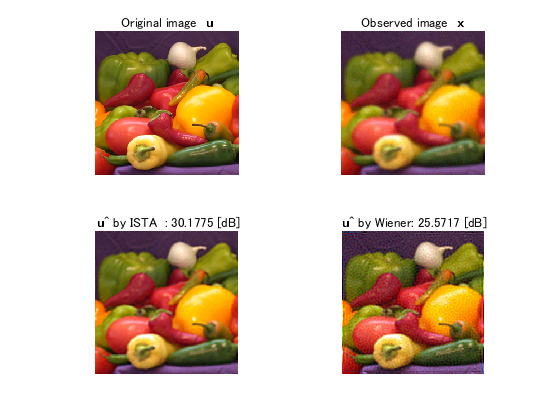
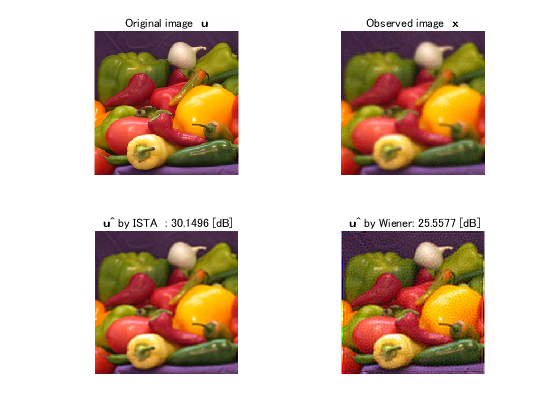
Updated Contents.m

diff --git a/html/quickstart.html b/html/quickstart.html
@@ -6,7 +6,7 @@
    <!--
 This HTML was auto-generated from MATLAB code.
 To make changes, update the MATLAB code and republish this document.
-      --><title>Quickstart of SaivDr Package</title><meta name="generator" content="MATLAB 9.2"><link rel="schema.DC" href="http://purl.org/dc/elements/1.1/"><meta name="DC.date" content="2017-07-14"><meta name="DC.source" content="quickstart.m"><style type="text/css">
+      --><title>Quickstart of SaivDr Package</title><meta name="generator" content="MATLAB 9.4"><link rel="schema.DC" href="http://purl.org/dc/elements/1.1/"><meta name="DC.date" content="2018-07-21"><meta name="DC.source" content="quickstart.m"><style type="text/css">
 html,body,div,span,applet,object,iframe,h1,h2,h3,h4,h5,h6,p,blockquote,pre,a,abbr,acronym,address,big,cite,code,del,dfn,em,font,img,ins,kbd,q,s,samp,small,strike,strong,sub,sup,tt,var,b,u,i,center,dl,dt,dd,ol,ul,li,fieldset,form,label,legend,table,caption,tbody,tfoot,thead,tr,th,td{margin:0;padding:0;border:0;outline:0;font-size:100%;vertical-align:baseline;background:transparent}body{line-height:1}ol,ul{list-style:none}blockquote,q{quotes:none}blockquote:before,blockquote:after,q:before,q:after{content:'';content:none}:focus{outine:0}ins{text-decoration:none}del{text-decoration:line-through}table{border-collapse:collapse;border-spacing:0}
 
 html { min-height:100%; margin-bottom:1px; }
@@ -67,7 +67,7 @@ table td { padding:7px 5px; text-align:left; vertical-align:top; border:1px soli
 
 
   </style></head><body><div class="content"><h1>Quickstart of <b>SaivDr Package</b></h1><!--introduction--><p>A brief introduction to image restroation with <b>SaivDr Package</b></p><!--/introduction--><h2>Contents</h2><div><ul><li><a href="#1">Summary</a></li><li><a href="#2">Add the package to search path</a></li><li><a href="#3">Read a source image</a></li><li><a href="#4">Create a degradation system object</a></li><li><a href="#5">Generate an observed image</a></li><li><a href="#6">Create an NSOLT system object</a></li><li><a href="#7">Create an analysis and synthesis system object</a></li><li><a href="#10">Create an ISTA-based image restoration system object</a></li><li><a href="#11">Create a step monitor system object</a></li><li><a href="#12">Perform ISTA-based image restoration</a></li><li><a href="#13">Extract the final evaluation</a></li><li><a href="#14">Perform Wiener filtering</a></li><li><a href="#15">Compare deblurring performances</a></li><li><a href="#16">Release notes</a></li></ul></div><h2 id="1">Summary</h2><p><b>SaivDr</b> is an abbreviation of <i>Sparsity-Aware Image and Volume Data Restoration</i>. This package is developed in order for making</p><div><ul><li>Experiments,</li><li>Development and</li><li>Implementation</li></ul></div><p>of sparsity-aware image and volume data restoraition algorithms simple.</p><p>Information about <b>SaivDr Package</b> is given in Contents.m. The HELP command can be used to see the contents as follows:</p><pre class="codeinput">help <span class="string">SaivDr</span>
-</pre><pre class="codeoutput">  Sparsity-Aware Image and Volume Data Restoration Package
+</pre><pre class="codeoutput">  Sparsity-Aware Image and Volumetric Data Restoration Package
  
   Files
     mytest     - Script of unit testing for SaivDr Package
@@ -87,6 +87,8 @@ table td { padding:7px 5px; text-align:left; vertical-align:top; border:1px soli
               |            |               +- nsgenlot  -+- design
               |            |               |
               |            |               +- nsgenlotx -+- design
+              |            |               |
+              |            |               +- olaols
               |            |               |
               |            |               +- olpprfb
               |            |               |
@@ -121,6 +123,8 @@ table td { padding:7px 5px; text-align:left; vertical-align:top; border:1px soli
               |               +- nsgenlot  -+- design
               |               |         
               |               +- nsgenlotx -+- design
+              |               |         
+              |               +- olaols
               |               |         
               |               +- olpprfb
               |               |         
@@ -188,9 +192,9 @@ table td { padding:7px 5px; text-align:left; vertical-align:top; border:1px soli
   
   - Shogo Muramatsu, Kosuke Furuya and Naotaka Yuki, "Multidimensional 
     Nonseparable Oversampled Lapped Transforms: Theory and Design," 
-    IEEE Trans. on Signal Process.Vol.65, No.5, pp.1251?1264,
+    IEEE Trans. on Signal Process.Vol.65, No.5, pp.1251-1264,
     DOI:10.1109/TSP.2016.2633240, March 2017.
- 
+    
   - Kota Horiuchi and Shogo Muramatsu, "Fast convolution technique for 
     Non-separable Oversampled Lapped transforms," Proc. of Asia Pacific 
     Signal and Information Proc. Assoc. Annual Summit and Conf. 
@@ -252,7 +256,7 @@ height = 256; <span class="comment">% Height</span>
 px     = 64;  <span class="comment">% Horizontal position of cropping</span>
 py     = 64;  <span class="comment">% Vertical position of cropping</span>
 orgImg = im2double(srcImg(py:py+height-1,px:px+width-1,:));
-</pre><h2 id="4">Create a degradation system object</h2><p>Suppose that we only have a degraded image <img src="quickstart_eq08291690262771002032.png" alt="$\mathbf{x}$"> which is contaminated by Gaussian kernel blur <img src="quickstart_eq04341845410467366200.png" alt="$\mathbf{P}$"> with addtive white Gaussian noise <img src="quickstart_eq06351776505552165981.png" alt="$\mathbf{w}$">, i.e.</p><p><img src="quickstart_eq05931457240804436659.png" alt="$\mathbf{x} = \mathbf{Pu} + \mathbf{w}$"> ,</p><p>where <img src="quickstart_eq09258825031370906642.png" alt="$\mathbf{u}$"> is an unknown clearn original image.</p><p>Let us generate a degradation process by using the following classes provided by <b>SaivDr Package</b>.</p><div><ul><li>saivdr.degradation.linearprocess.BlurSystem</li><li>saivdr.degradation.noiseprocess.AdditiveWhiteGaussianNoiseSystem</li><li>saivdr.degradation.DegradationSystem</li></ul></div><pre class="codeinput">import <span class="string">saivdr.degradation.linearprocess.BlurSystem</span>
+</pre><h2 id="4">Create a degradation system object</h2><p>Suppose that we only have a degraded image <img src="quickstart_eq08291690262771002032.png" alt="$\mathbf{x}$" style="width:5px;height:4px;"> which is contaminated by Gaussian kernel blur <img src="quickstart_eq04341845410467366200.png" alt="$\mathbf{P}$" style="width:5px;height:5px;"> with addtive white Gaussian noise <img src="quickstart_eq06351776505552165981.png" alt="$\mathbf{w}$" style="width:6px;height:4px;">, i.e.</p><p><img src="quickstart_eq05931457240804436659.png" alt="$\mathbf{x} = \mathbf{Pu} + \mathbf{w}$" style="width:40px;height:6px;"> ,</p><p>where <img src="quickstart_eq09258825031370906642.png" alt="$\mathbf{u}$" style="width:5px;height:4px;"> is an unknown clearn original image.</p><p>Let us generate a degradation process by using the following classes provided by <b>SaivDr Package</b>.</p><div><ul><li>saivdr.degradation.linearprocess.BlurSystem</li><li>saivdr.degradation.noiseprocess.AdditiveWhiteGaussianNoiseSystem</li><li>saivdr.degradation.DegradationSystem</li></ul></div><pre class="codeinput">import <span class="string">saivdr.degradation.linearprocess.BlurSystem</span>
 blurtype = <span class="string">'Gaussian'</span>;  <span class="comment">% Blur type</span>
 boundary = <span class="string">'Symmetric'</span>; <span class="comment">% Boundary option</span>
 hsigma   = 2;           <span class="comment">% Sigma for Gausian kernel</span>
@@ -272,8 +276,8 @@ import <span class="string">saivdr.degradation.DegradationSystem</span>
 dgrd = DegradationSystem(<span class="keyword">...</span><span class="comment"> % Integration of blur and AWGN</span>
     <span class="string">'LinearProcess'</span>, blur,<span class="keyword">...</span>
     <span class="string">'NoiseProcess'</span>,  awgn);
-</pre><h2 id="5">Generate an observed image</h2><p>Then, let us generate an observed image <img src="quickstart_eq08291690262771002032.png" alt="$\mathbf{x}$"> by the DegradationSystem object, <i>dgrd</i> , created in the previous step.</p><pre class="codeinput">obsImg = step(dgrd,orgImg);
-</pre><h2 id="6">Create an NSOLT system object</h2><p>In order to restore the clearn image <img src="quickstart_eq09258825031370906642.png" alt="$\mathbf{u}$">, let us assume that <img src="quickstart_eq09258825031370906642.png" alt="$\mathbf{u}$"> is represented by a dictionary <img src="quickstart_eq07812796122435096599.png" alt="$\mathbf{D}$"> as</p><p><img src="quickstart_eq08718062006498229712.png" alt="$\mathbf{u} = \mathbf{Dy}$"> ,</p><p>where <img src="quickstart_eq01759449390978539805.png" alt="$\mathbf{y}$"> is a coefficient vector and expected to be sparse, i.e. the number of non-zero coefficients are few.</p><p>A non-separalbe oversampled lapped transform (NSOLT) can be used as a dictionary <img src="quickstart_eq07812796122435096599.png" alt="$\mathbf{D}$"> and instantiated by using the following static factory method:</p><div><ul><li>saivdr.dictionary.nsoltx.NsoltFactory.createOvsdLpPuFb2d()</li></ul></div><p>In this deblurring demo, a pre-designed NSOLT is loaded from the following location:</p><div><ul><li>( <i>ROOT_OF_SAIVDR</i> )/examples/quickdesign/results/</li></ul></div><p>If you are interested in the design of NSOLT, please refer, for example, to the following function:</p><div><ul><li>( <i>ROOT_OF_SAIVDR</i> )/examples/quickdesign/main_quickdesign.m</li></ul></div><pre class="codeinput"><span class="comment">% Parameters for NSOLT</span>
+</pre><h2 id="5">Generate an observed image</h2><p>Then, let us generate an observed image <img src="quickstart_eq08291690262771002032.png" alt="$\mathbf{x}$" style="width:5px;height:4px;"> by the DegradationSystem object, <i>dgrd</i> , created in the previous step.</p><pre class="codeinput">obsImg = step(dgrd,orgImg);
+</pre><h2 id="6">Create an NSOLT system object</h2><p>In order to restore the clearn image <img src="quickstart_eq09258825031370906642.png" alt="$\mathbf{u}$" style="width:5px;height:4px;">, let us assume that <img src="quickstart_eq09258825031370906642.png" alt="$\mathbf{u}$" style="width:5px;height:4px;"> is represented by a dictionary <img src="quickstart_eq07812796122435096599.png" alt="$\mathbf{D}$" style="width:6px;height:5px;"> as</p><p><img src="quickstart_eq08718062006498229712.png" alt="$\mathbf{u} = \mathbf{Dy}$" style="width:25px;height:7px;"> ,</p><p>where <img src="quickstart_eq01759449390978539805.png" alt="$\mathbf{y}$" style="width:5px;height:5px;"> is a coefficient vector and expected to be sparse, i.e. the number of non-zero coefficients are few.</p><p>A non-separalbe oversampled lapped transform (NSOLT) can be used as a dictionary <img src="quickstart_eq07812796122435096599.png" alt="$\mathbf{D}$" style="width:6px;height:5px;"> and instantiated by using the following static factory method:</p><div><ul><li>saivdr.dictionary.nsoltx.NsoltFactory.createOvsdLpPuFb2d()</li></ul></div><p>In this deblurring demo, a pre-designed NSOLT is loaded from the following location:</p><div><ul><li>( <i>ROOT_OF_SAIVDR</i> )/examples/quickdesign/results/</li></ul></div><p>If you are interested in the design of NSOLT, please refer, for example, to the following function:</p><div><ul><li>( <i>ROOT_OF_SAIVDR</i> )/examples/quickdesign/main_quickdesign.m</li></ul></div><pre class="codeinput"><span class="comment">% Parameters for NSOLT</span>
 nLevels = 4;     <span class="comment">% # of wavelet tree levels</span>
 nDec    = [2 2]; <span class="comment">% Decimation factor</span>
 nChs    = [4 4]; <span class="comment">% # of channels</span>
@@ -329,7 +333,7 @@ set(synthesizer,<span class="string">'UseGpu'</span>,false);
 analyzer    = NsoltFactory.createAnalysis2dSystem(nsolt);
 </pre><pre class="language-matlab"><span class="comment">% saivdr.dictionary.nsoltx.NsoltSynthesis2dSystem</span>
 synthesizer = NsoltFactory.createSynthesis2dSystem(nsolt);
-</pre><h2 id="10">Create an ISTA-based image restoration system object</h2><p>Let the <img src="quickstart_eq07491953565008501379.png" alt="$\ell_1$">-norm of <img src="quickstart_eq01759449390978539805.png" alt="$\mathbf{y}$">, i.e. <img src="quickstart_eq03981472617682197909.png" alt="$\|\mathbf{y}\|_1$">, be the sparsity measure of the coefficients. Then, the debluring problem can be formulated as</p><p><img src="quickstart_eq04865511837010530479.png" alt="$\hat{\mathbf{y}} = \arg\min_{\mathbf{y}}\frac{1}{2}\|\mathbf{x}-\mathbf{PDy}\|_2^2+\lambda\|\mathbf{y}\|_1$">.</p><p>Provided that the blur process <img src="quickstart_eq04341845410467366200.png" alt="$\mathbf{P}$"> is known and given as a linear process, the iterative shrinkage/thresholding algorithm (ISTA) becomes applicable to solve the above problem. In <b>SaivDr Package</b>, image restoration with ISTA is implemented in the following class:</p><div><ul><li>saivdr.restoration.ista.IstaImRestoration</li></ul></div><pre class="codeinput"><span class="comment">% Instantiation of ISTA system object</span>
+</pre><h2 id="10">Create an ISTA-based image restoration system object</h2><p>Let the <img src="quickstart_eq07491953565008501379.png" alt="$\ell_1$" style="width:6px;height:7px;">-norm of <img src="quickstart_eq01759449390978539805.png" alt="$\mathbf{y}$" style="width:5px;height:5px;">, i.e. <img src="quickstart_eq03981472617682197909.png" alt="$\|\mathbf{y}\|_1$" style="width:14px;height:8px;">, be the sparsity measure of the coefficients. Then, the debluring problem can be formulated as</p><p><img src="quickstart_eq04865511837010530479.png" alt="$\hat{\mathbf{y}} = \arg\min_{\mathbf{y}}\frac{1}{2}\|\mathbf{x}-\mathbf{PDy}\|_2^2+\lambda\|\mathbf{y}\|_1$" style="width:116px;height:9px;">.</p><p>Provided that the blur process <img src="quickstart_eq04341845410467366200.png" alt="$\mathbf{P}$" style="width:5px;height:5px;"> is known and given as a linear process, the iterative shrinkage/thresholding algorithm (ISTA) becomes applicable to solve the above problem. In <b>SaivDr Package</b>, image restoration with ISTA is implemented in the following class:</p><div><ul><li>saivdr.restoration.ista.IstaImRestoration</li></ul></div><pre class="codeinput"><span class="comment">% Instantiation of ISTA system object</span>
 import <span class="string">saivdr.restoration.ista.IstaImRestoration2d</span>
 lambda    = 0.00185;                      <span class="comment">% lambda</span>
 ista = IstaImRestoration2d(<span class="keyword">...</span>
@@ -360,62 +364,62 @@ stepmonitor = StepMonitoringSystem(<span class="keyword">...</span>
 
 <span class="comment">% Set the object to the ISTA system object</span>
 set(ista,<span class="string">'StepMonitor'</span>,stepmonitor);
-</pre><h2 id="12">Perform ISTA-based image restoration</h2><p>STEP method of IstaImRestoration system object, <i>ista</i> , executes the ISTA-based image restoration to deblur the observed image. As the result, a restored image</p><p><img src="quickstart_eq00899684586602534243.png" alt="$\hat{\mathbf{u}} = \mathbf{D}\hat{\mathbf{y}}$"></p><p>is obtained.</p><pre class="codeinput">fprintf(<span class="string">'\n ISTA'</span>)
+</pre><h2 id="12">Perform ISTA-based image restoration</h2><p>STEP method of IstaImRestoration system object, <i>ista</i> , executes the ISTA-based image restoration to deblur the observed image. As the result, a restored image</p><p><img src="quickstart_eq00899684586602534243.png" alt="$\hat{\mathbf{u}} = \mathbf{D}\hat{\mathbf{y}}$" style="width:25px;height:7px;"></p><p>is obtained.</p><pre class="codeinput">fprintf(<span class="string">'\n ISTA'</span>)
 resImg = step(ista,obsImg); <span class="comment">% STEP method of IstaImRestoration</span>
 </pre><pre class="codeoutput">
  ISTA
 (   1)  PSNR =  27.20 [dB] 
-(   2)  PSNR =  27.95 [dB] 
-(   3)  PSNR =  28.39 [dB] 
-(   4)  PSNR =  28.69 [dB] 
+(   2)  PSNR =  27.94 [dB] 
+(   3)  PSNR =  28.38 [dB] 
+(   4)  PSNR =  28.68 [dB] 
 (   5)  PSNR =  28.91 [dB] 
 (   6)  PSNR =  29.08 [dB] 
-(   7)  PSNR =  29.22 [dB] 
-(   8)  PSNR =  29.33 [dB] 
+(   7)  PSNR =  29.21 [dB] 
+(   8)  PSNR =  29.32 [dB] 
 (   9)  PSNR =  29.42 [dB] 
-(  10)  PSNR =  29.50 [dB] 
-(  11)  PSNR =  29.57 [dB] 
-(  12)  PSNR =  29.63 [dB] 
-(  13)  PSNR =  29.68 [dB] 
-(  14)  PSNR =  29.73 [dB] 
-(  15)  PSNR =  29.77 [dB] 
-(  16)  PSNR =  29.80 [dB] 
-(  17)  PSNR =  29.84 [dB] 
-(  18)  PSNR =  29.86 [dB] 
-(  19)  PSNR =  29.89 [dB] 
-(  20)  PSNR =  29.92 [dB] 
-(  21)  PSNR =  29.94 [dB] 
-(  22)  PSNR =  29.96 [dB] 
-(  23)  PSNR =  29.98 [dB] 
-(  24)  PSNR =  29.99 [dB] 
-(  25)  PSNR =  30.01 [dB] 
-(  26)  PSNR =  30.02 [dB] 
-(  27)  PSNR =  30.04 [dB] 
-(  28)  PSNR =  30.05 [dB] 
-(  29)  PSNR =  30.06 [dB] 
-(  30)  PSNR =  30.07 [dB] 
-(  31)  PSNR =  30.08 [dB] 
-(  32)  PSNR =  30.09 [dB] 
-(  33)  PSNR =  30.10 [dB] 
-(  34)  PSNR =  30.11 [dB] 
-(  35)  PSNR =  30.12 [dB] 
-(  36)  PSNR =  30.12 [dB] 
-(  37)  PSNR =  30.13 [dB] 
-(  38)  PSNR =  30.13 [dB] 
-(  39)  PSNR =  30.14 [dB] 
-(  40)  PSNR =  30.14 [dB] 
-(  41)  PSNR =  30.15 [dB] 
-(  42)  PSNR =  30.15 [dB] 
-(  43)  PSNR =  30.16 [dB] 
-(  44)  PSNR =  30.16 [dB] 
-(  45)  PSNR =  30.16 [dB] 
-(  46)  PSNR =  30.16 [dB] 
-(  47)  PSNR =  30.17 [dB] 
-(  48)  PSNR =  30.17 [dB] 
-(  49)  PSNR =  30.17 [dB] 
-(  50)  PSNR =  30.17 [dB] 
-(  51)  PSNR =  30.18 [dB] 
-(  52)  PSNR =  30.18 [dB] 
+(  10)  PSNR =  29.49 [dB] 
+(  11)  PSNR =  29.56 [dB] 
+(  12)  PSNR =  29.62 [dB] 
+(  13)  PSNR =  29.67 [dB] 
+(  14)  PSNR =  29.72 [dB] 
+(  15)  PSNR =  29.76 [dB] 
+(  16)  PSNR =  29.79 [dB] 
+(  17)  PSNR =  29.82 [dB] 
+(  18)  PSNR =  29.85 [dB] 
+(  19)  PSNR =  29.88 [dB] 
+(  20)  PSNR =  29.90 [dB] 
+(  21)  PSNR =  29.93 [dB] 
+(  22)  PSNR =  29.95 [dB] 
+(  23)  PSNR =  29.96 [dB] 
+(  24)  PSNR =  29.98 [dB] 
+(  25)  PSNR =  30.00 [dB] 
+(  26)  PSNR =  30.01 [dB] 
+(  27)  PSNR =  30.02 [dB] 
+(  28)  PSNR =  30.03 [dB] 
+(  29)  PSNR =  30.04 [dB] 
+(  30)  PSNR =  30.06 [dB] 
+(  31)  PSNR =  30.06 [dB] 
+(  32)  PSNR =  30.07 [dB] 
+(  33)  PSNR =  30.08 [dB] 
+(  34)  PSNR =  30.09 [dB] 
+(  35)  PSNR =  30.09 [dB] 
+(  36)  PSNR =  30.10 [dB] 
+(  37)  PSNR =  30.11 [dB] 
+(  38)  PSNR =  30.11 [dB] 
+(  39)  PSNR =  30.11 [dB] 
+(  40)  PSNR =  30.12 [dB] 
+(  41)  PSNR =  30.12 [dB] 
+(  42)  PSNR =  30.13 [dB] 
+(  43)  PSNR =  30.13 [dB] 
+(  44)  PSNR =  30.13 [dB] 
+(  45)  PSNR =  30.14 [dB] 
+(  46)  PSNR =  30.14 [dB] 
+(  47)  PSNR =  30.14 [dB] 
+(  48)  PSNR =  30.14 [dB] 
+(  49)  PSNR =  30.15 [dB] 
+(  50)  PSNR =  30.15 [dB] 
+(  51)  PSNR =  30.15 [dB] 
+(  52)  PSNR =  30.15 [dB] 
 </pre><img vspace="5" hspace="5" src="quickstart_02.png" alt=""> <h2 id="13">Extract the final evaluation</h2><p>The object of StepMonitoringSystem, <i>stepmonitor</i> , stores the evaluation values calculated iteratively in ISTA as a vector. The GET method of <i>stepmonitor</i>  can be used to extract the number of iterations and the sequence of PSNRs.</p><pre class="codeinput">nItr  = get(stepmonitor,<span class="string">'nItr'</span>);
 psnrs = get(stepmonitor,<span class="string">'PSNRs'</span>);
 psnr_ista = psnrs(nItr);
@@ -443,7 +447,7 @@ fprintf(<span class="string">'\n Wiener'</span>)
 psnr_wfdc = step(stepmonitor,wnfImg); <span class="comment">% STEP method of StepMonitoringSystem</span>
 </pre><pre class="codeoutput">
  Wiener
-(   1)  PSNR =  25.57 [dB] 
+(   1)  PSNR =  25.56 [dB] 
 </pre><h2 id="15">Compare deblurring performances</h2><p>In order to compare the deblurring performances between two methods, ISTA-based deblurring with NSOLT and Wiener filter, let us show the original, observed and two results in one figure together.</p><pre class="codeinput">hfig3 = figure(3);
 
 <span class="comment">% Original image x</span>
@@ -574,7 +578,7 @@ title([<span class="string">'{\bf u}\^ by Wiener: '</span> num2str(psnr_wfdc) <s
   For now, this problem is avoided by running PARPOOL before running MYTEST.
 
 ---
-</pre><p class="footer"><br><a href="http://www.mathworks.com/products/matlab/">Published with MATLAB&reg; R2017a</a><br></p></div><!--
+</pre><p class="footer"><br><a href="https://www.mathworks.com/products/matlab/">Published with MATLAB&reg; R2018a</a><br></p></div><!--
 ##### SOURCE BEGIN #####
 %% Quickstart of *SaivDr Package*
 % A brief introduction to image restroation with *SaivDr Package*

diff --git a/Contents.m b/Contents.m
@@ -1,4 +1,4 @@
-% Sparsity-Aware Image and Volume Data Restoration Package
+% Sparsity-Aware Image and Volumetric Data Restoration Package
 %
 % Files
 %   mytest     - Script of unit testing for SaivDr Package
@@ -54,6 +54,8 @@
 %             |               +- nsgenlot  -+- design
 %             |               |         
 %             |               +- nsgenlotx -+- design
+%             |               |         
+%             |               +- olaols
 %             |               |         
 %             |               +- olpprfb
 %             |               |         
@@ -121,9 +123,9 @@
 % 
 % - Shogo Muramatsu, Kosuke Furuya and Naotaka Yuki, "Multidimensional 
 %   Nonseparable Oversampled Lapped Transforms: Theory and Design," 
-%   IEEE Trans. on Signal Process.Vol.65, No.5, pp.1251?1264,
+%   IEEE Trans. on Signal Process.Vol.65, No.5, pp.1251-1264,
 %   DOI:10.1109/TSP.2016.2633240, March 2017.
-%
+%   
 % - Kota Horiuchi and Shogo Muramatsu, "Fast convolution technique for 
 %   Non-separable Oversampled Lapped transforms," Proc. of Asia Pacific 
 %   Signal and Information Proc. Assoc. Annual Summit and Conf. 
